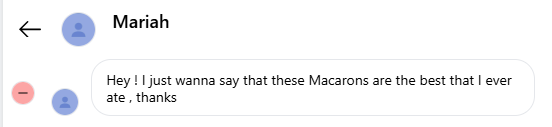
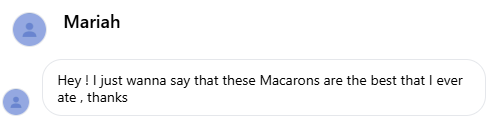
CSS applied for Feedbacks Section

diff --git a/assets/style.css b/assets/style.css
@@ -41,6 +41,7 @@ html {
 }
 
 .photo{
+    border: 10px;
     transition: transform .5s ease;
 }
 .photo:hover{
@@ -170,5 +171,18 @@ html {
     color: darkgreen
 }
 
+/*-------- FEEDBACK --------*/
+
+.feedback_data > .card {
+    display: flex;
+    justify-content: center;
+    margin: 40px 0px;
+}
+.feedback_data >* .photo {
+    width: 400px;
+    height: 120px;
+    box-shadow: 0px 0px 5px  black;
+
+}
 
 
